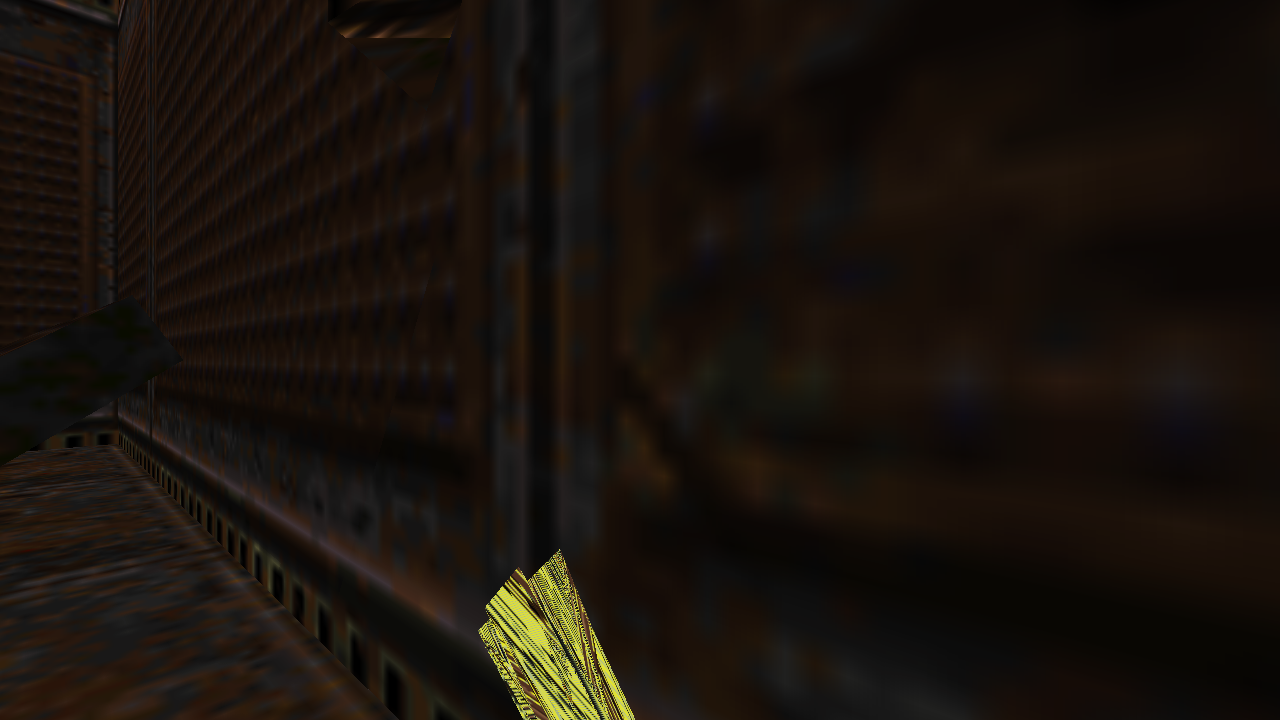
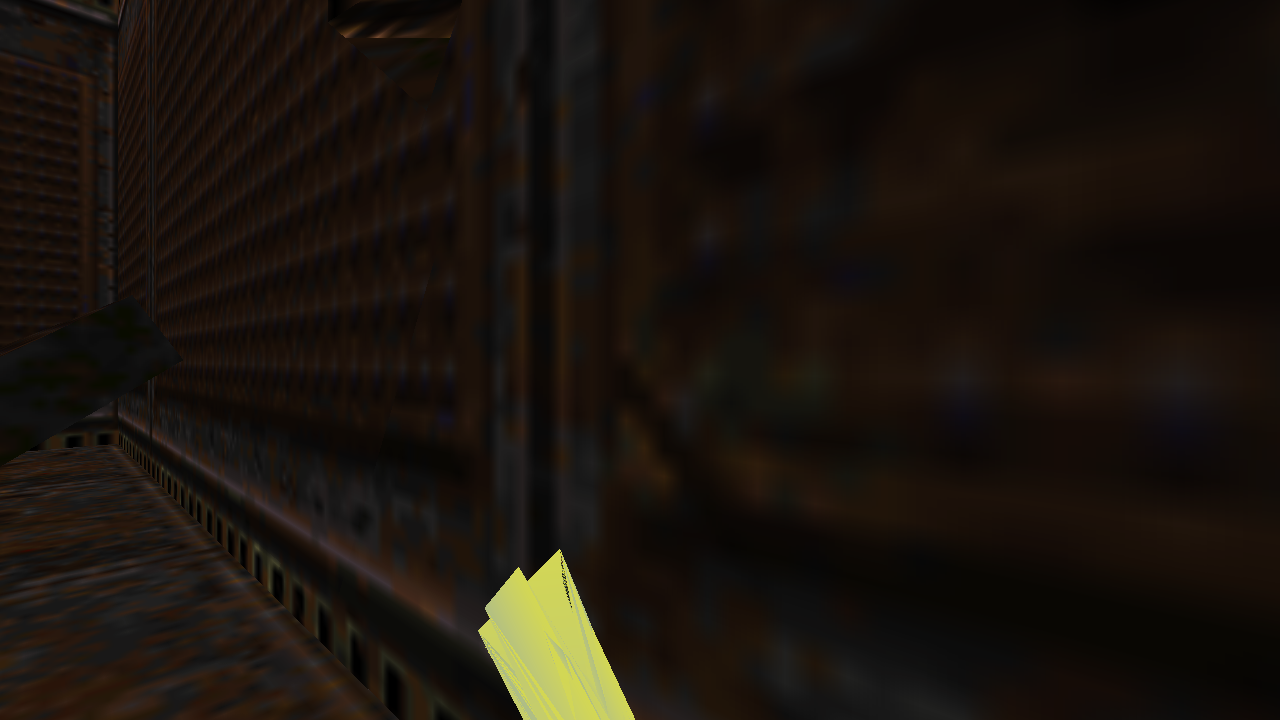
Fix MD2 weapon texture coordinate handling
Critical UV coordinate fixes:
- Changed LM2() temp buffer from int* to float* to preserve UV precision
- glcmds UVs are pre-normalized (0-1), trilist UVs need normalization
- Added conditional UV handling: glcmds pass-through, trilist divide by skin dimensions
- Updated texture array dimensions to include MD2 model skin sizes

Technical details:
- glcmds store UVs as floats ready for GPU (already normalized)
- Triangle list stores pixel coordinates requiring division by skin width/height
- Fixed vertex buffer packing to correctly store float UVs
- Weapon now renders with proper smooth texture mapping

Weapon displays correctly with yellow/gold blaster skin texture.

Changed region(s): [[0.375, 0.7639, 0.5, 1.0]]

diff --git a/q2.c b/q2.c
@@ -24,7 +24,7 @@ I FL(V p,I n){while(n>=0){if(n>=nnd)return 0;ND*nd_=&nd[n];PL*pn=&pl[nd_->pn];F 
 TC BT(V s,V e){TC t;t.fr=1;t.n=(V){0,0,1};t.hit=0;for(I i=0;i<nbr;i++)TB(s,e,&br[i],&t);return t;}
 V CV(V v,V n){F b=v.x*n.x+v.y*n.y+v.z*n.z;return(V){v.x-n.x*b,v.y-n.y*b,v.z-n.z*b};}
 U*txd[1024];I txw[1024],txh[1024],txc=0,txmap[1024],tmw=256,tmh=512;void BL(const char*p){I sz;U*d=LF(p,&sz);if(!d||sz<8||memcmp(d,"IBSP",4)||((I*)d)[1]!=38){F t[]={-100,-100,0,0,0,0.5,0.5,0,1,0,100,-100,0,1,0,0.5,0.5,0,1,0,0,100,0,0.5,1,0.5,0.5,0,1,0};vb=malloc(sizeof(t));memcpy(vb,t,sizeof(t));nv=3;return;}L*lp=(L*)(d+8);pl=(PL*)(d+lp[1].o);npl=lp[1].l/sizeof(PL);nd=(ND*)(d+lp[4].o);nnd=lp[4].l/sizeof(ND);lf=(LE*)(d+lp[8].o);nlf=lp[8].l/sizeof(LE);lb=(S*)(d+lp[9].o);nlb=lp[9].l/sizeof(S);br=(BH*)(d+lp[14].o);nbr=lp[14].l/sizeof(BH);bs=(BX*)(d+lp[15].o);nbs=lp[15].l/sizeof(BX);printf("Col: %d planes, %d nodes, %d leaves, %d leafbrushes, %d brushes, %d brushsides\n",npl,nnd,nlf,nlb,nbr,nbs);I lc=0;for(I i=0;i<nlf;i++)if(lf[i].nlb>0)lc++;printf("Leaves with brushes: %d/%d\n",lc,nlf);I sc=0;for(I i=0;i<nbr;i++)if(br[i].ct&1)sc++;printf("Solid brushes: %d/%d\n",sc,nbr);V*vx=(V*)(d+lp[2].o);TI*ti=(TI*)(d+lp[5].o);E*ed=(E*)(d+lp[11].o);J*se=(J*)(d+lp[12].o);FC*fc=(FC*)(d+lp[6].o);U*lm=(U*)(d+lp[7].o);I nf=lp[6].l/sizeof(FC);I nt=lp[5].l/sizeof(TI);for(I i=0;i<nt&&i<1024;i++){txmap[i]=0;char pth[128];sprintf(pth,"baseq2/textures/%s.wal",ti[i].n);I sz2;U*td=LF(pth,&sz2);if(td&&sz2>100&&txc<1024){TX*h=(TX*)td;txw[txc]=h->w;txh[txc]=h->h;txd[txc]=malloc(h->w*h->h*3);for(I j=0;j<h->w*h->h;j++){U idx=td[h->o[0]+j];txd[txc][j*3]=pal[idx*3];txd[txc][j*3+1]=pal[idx*3+1];txd[txc][j*3+2]=pal[idx*3+2];}txmap[i]=txc++;if(h->w>tmw)tmw=h->w;if(h->h>tmh)tmh=h->h;free(td);}}U*la=malloc(1024*1024*3);memset(la,128,1024*1024*3);I lx=0,ly=0,lh=0;vb=malloc(nf*100*10*sizeof(F));F*vp=vb;F mx=-9e9,my=-9e9,mz=-9e9,Mx=9e9,My=9e9,Mz=9e9;I nse=lp[12].l/sizeof(J);I ne=lp[11].l/sizeof(E);I nvx=lp[2].l/sizeof(V);for(I i=0;i<nf;i++){FC*f=&fc[i];if(f->ti>=nt)continue;I tix=txmap[f->ti];TI*tx=&ti[f->ti];V vl[64];I nv_=0;F mu=9e9,mv=9e9,Mu=-9e9,Mv=-9e9;for(I j=0;j<f->ne&&j<64;j++){if(f->fe+j>=nse)break;J si=se[f->fe+j];I ei=si>=0?si:-si;if(ei>=ne)break;S vi=si>=0?ed[si].v[0]:ed[-si].v[1];if(vi>=nvx)break;vl[nv_]=vx[vi];F u=vl[nv_].x*tx->v[0][0]+vl[nv_].y*tx->v[0][1]+vl[nv_].z*tx->v[0][2]+tx->v[0][3];F vv=vl[nv_].x*tx->v[1][0]+vl[nv_].y*tx->v[1][1]+vl[nv_].z*tx->v[1][2]+tx->v[1][3];mu=u<mu?u:mu;mv=vv<mv?vv:mv;Mu=u>Mu?u:Mu;Mv=vv>Mv?vv:Mv;nv_++;}I lw=(I)((Mu-mu)/16)+1,lh_=(I)((Mv-mv)/16)+1;if(lx+lw>1024){lx=0;ly+=lh+1;lh=0;}if(ly+lh_<1024&&f->lm>=0&&f->lm<lp[7].l){for(I y=0;y<lh_;y++)for(I x=0;x<lw;x++){if(lx+x<1024&&ly+y<1024){I si=(lx+x+(ly+y)*1024)*3,di=f->lm+(x+y*lw)*3;if(di+2<lp[7].l){la[si]=lm[di];la[si+1]=lm[di+1];la[si+2]=lm[di+2];}}}}for(I t=0;t<nv_-2;t++){for(I k=0;k<3;k++){V*v=k==0?&vl[0]:k==1?&vl[t+1]:&vl[t+2];F tw=tix<txc?txw[tix]:256,th=tix<txc?txh[tix]:512;F u=(v->x*tx->v[0][0]+v->y*tx->v[0][1]+v->z*tx->v[0][2]+tx->v[0][3])/tmw;F vv=(v->x*tx->v[1][0]+v->y*tx->v[1][1]+v->z*tx->v[1][2]+tx->v[1][3])/tmh;F lu=(v->x*tx->v[0][0]+v->y*tx->v[0][1]+v->z*tx->v[0][2]+tx->v[0][3]-mu)/16.0f;F lv=(v->x*tx->v[1][0]+v->y*tx->v[1][1]+v->z*tx->v[1][2]+tx->v[1][3]-mv)/16.0f;mx=v->x>mx?v->x:mx;my=v->y>my?v->y:my;mz=v->z>mz?v->z:mz;Mx=v->x<Mx?v->x:Mx;My=v->y<My?v->y:My;Mz=v->z<Mz?v->z:Mz;*vp++=v->x;*vp++=v->y;*vp++=v->z;*vp++=u;*vp++=vv;*vp++=(lx+lu)/1024.0f;*vp++=(ly+lv)/1024.0f;*vp++=tix;*vp++=1;*vp++=1;}}lx+=lw+1;lh=lh_>lh?lh_:lh;}nv=(vp-vb)/10;glGenTextures(1,&lmt);glBindTexture(GL_TEXTURE_2D,lmt);glTexImage2D(GL_TEXTURE_2D,0,GL_RGB,1024,1024,0,GL_RGB,GL_UNSIGNED_BYTE,la);glTexParameteri(GL_TEXTURE_2D,GL_TEXTURE_MIN_FILTER,GL_LINEAR);glTexParameteri(GL_TEXTURE_2D,GL_TEXTURE_MAG_FILTER,GL_LINEAR);free(la);bsp=d;gz=Mz+32;printf("BSP: %d faces -> %d tris, %d textures, bounds:[%.0f,%.0f] [%.0f,%.0f] [%.0f,%.0f]\n",nf,nv/3,txc,Mx,mx,My,my,Mz,mz);}
-void LM2(const char*p,U**d,F**vb,S**vi,I*nv,F*f1,F*f2,F*mx,I ti){I sz;*d=LF(p,&sz);if(!*d||sz<68){*d=0;return;}MD*h=(MD*)*d;if(h->id!=844121161||h->ver!=8){*d=0;return;}I tn=0,cap=10000;I*tmp=malloc(cap*9*sizeof(I));if(h->ogl>0&&h->ogl<sz){I*gc=(I*)(*d+h->ogl);while((U*)gc<*d+sz-16){I c=*gc++;if(!c)break;I fan=c<0;if(fan)c=-c;if(c<3||c>5000)break;F u0,v0,u1,v1;memcpy(&u0,gc++,4);memcpy(&v0,gc++,4);I i0=*gc++;memcpy(&u1,gc++,4);memcpy(&v1,gc++,4);I i1=*gc++;for(I k=2;k<c;k++){F u2,v2;memcpy(&u2,gc++,4);memcpy(&v2,gc++,4);I i2=*gc++;if(tn>=cap){cap*=2;tmp=realloc(tmp,cap*9*sizeof(I));}I*t=tmp+tn*9;if(fan){t[0]=i0;memcpy(t+1,&u0,4);memcpy(t+2,&v0,4);t[3]=i1;memcpy(t+4,&u1,4);memcpy(t+5,&v1,4);t[6]=i2;memcpy(t+7,&u2,4);memcpy(t+8,&v2,4);i1=i2;u1=u2;v1=v2;}else{if(k%2){t[0]=i1;memcpy(t+1,&u1,4);memcpy(t+2,&v1,4);t[3]=i0;memcpy(t+4,&u0,4);memcpy(t+5,&v0,4);t[6]=i2;memcpy(t+7,&u2,4);memcpy(t+8,&v2,4);}else{t[0]=i0;memcpy(t+1,&u0,4);memcpy(t+2,&v0,4);t[3]=i1;memcpy(t+4,&u1,4);memcpy(t+5,&v1,4);t[6]=i2;memcpy(t+7,&u2,4);memcpy(t+8,&v2,4);}i0=i1;u0=u1;v0=v1;i1=i2;u1=u2;v1=v2;}tn++;}}}if(tn==0&&h->ofs>0&&h->ofs<sz&&h->ost>0&&h->ost<sz&&h->nt>0){typedef struct{S iv[3],it[3];}TT;TT*trs=(TT*)(*d+h->ofs);typedef struct{S s,t;}ST;ST*sts=(ST*)(*d+h->ost);for(I i=0;i<h->nt&&i<5000;i++){if(tn>=cap){cap*=2;tmp=realloc(tmp,cap*9*sizeof(I));}for(I j=0;j<3;j++){I*t=tmp+tn*9+j*3;t[0]=trs[i].iv[j];F u=(F)sts[trs[i].it[j]].s/h->sw,v=(F)sts[trs[i].it[j]].t/h->sh;memcpy(t+1,&u,4);memcpy(t+2,&v,4);}tn++;}}*nv=tn*3;*vb=malloc(*nv*10*sizeof(F));*vi=malloc(*nv*sizeof(S));F*vp=*vb;for(I i=0;i<tn*3;i++){(*vi)[i]=(S)tmp[i*3];F u,v;memcpy(&u,&tmp[i*3+1],4);memcpy(&v,&tmp[i*3+2],4);*vp++=0;*vp++=0;*vp++=0;*vp++=u;*vp++=v;*vp++=0;*vp++=0;*vp++=ti;*vp++=1;*vp++=1;}free(tmp);*f1=0;*f2=1;*mx=0;printf("MD2: %d frames, %d verts, %d tris (%s)\n",h->nf,h->nv,tn,tn>0&&h->ogl>0&&h->ogl<sz?"glcmds":"trilist");}
+void LM2(const char*p,U**d,F**vb,S**vi,I*nv,F*f1,F*f2,F*mx,I ti){I sz;*d=LF(p,&sz);if(!*d||sz<68){*d=0;return;}MD*h=(MD*)*d;if(h->id!=844121161||h->ver!=8){*d=0;return;}I tn=0,cap=10000;F*tmp=malloc(cap*9*sizeof(F));if(h->ogl>0&&h->ogl<sz){I*gc=(I*)(*d+h->ogl);while((U*)gc<*d+sz-16){I c=*gc++;if(!c)break;I fan=c<0;if(fan)c=-c;if(c<3||c>5000)break;F u0,v0;S i0;memcpy(&u0,gc++,4);memcpy(&v0,gc++,4);i0=*gc++;F u1,v1;S i1;memcpy(&u1,gc++,4);memcpy(&v1,gc++,4);i1=*gc++;for(I k=2;k<c;k++){F u2,v2;S i2;memcpy(&u2,gc++,4);memcpy(&v2,gc++,4);i2=*gc++;if(tn>=cap){cap*=2;tmp=realloc(tmp,cap*9*sizeof(F));}F*t=tmp+tn*9;if(fan){t[0]=i0;t[1]=u0;t[2]=v0;t[3]=i1;t[4]=u1;t[5]=v1;t[6]=i2;t[7]=u2;t[8]=v2;i1=i2;u1=u2;v1=v2;}else{if(k%2){t[0]=i1;t[1]=u1;t[2]=v1;t[3]=i0;t[4]=u0;t[5]=v0;t[6]=i2;t[7]=u2;t[8]=v2;}else{t[0]=i0;t[1]=u0;t[2]=v0;t[3]=i1;t[4]=u1;t[5]=v1;t[6]=i2;t[7]=u2;t[8]=v2;}i0=i1;u0=u1;v0=v1;i1=i2;u1=u2;v1=v2;}tn++;}}}if(tn==0&&h->ofs>0&&h->ofs<sz&&h->ost>0&&h->ost<sz&&h->nt>0){typedef struct{S iv[3],it[3];}TT;TT*trs=(TT*)(*d+h->ofs);typedef struct{S s,t;}ST;ST*sts=(ST*)(*d+h->ost);for(I i=0;i<h->nt&&i<5000;i++){if(tn>=cap){cap*=2;tmp=realloc(tmp,cap*9*sizeof(F));}for(I j=0;j<3;j++){F*t=tmp+tn*9+j*3;t[0]=trs[i].iv[j];t[1]=(F)sts[trs[i].it[j]].s/h->sw;t[2]=(F)sts[trs[i].it[j]].t/h->sh;}tn++;}}*nv=tn*3;*vb=malloc(*nv*10*sizeof(F));*vi=malloc(*nv*sizeof(S));F*vp=*vb;I used_glcmds=tn>0&&h->ogl>0&&h->ogl<sz;for(I i=0;i<tn*3;i++){(*vi)[i]=(S)tmp[i*3];F u=used_glcmds?tmp[i*3+1]:tmp[i*3+1]/h->sw,v=used_glcmds?tmp[i*3+2]:tmp[i*3+2]/h->sh;*vp++=0;*vp++=0;*vp++=0;*vp++=u;*vp++=v;*vp++=0;*vp++=0;*vp++=ti;*vp++=1;*vp++=1;}free(tmp);*f1=0;*f2=1;*mx=0;printf("MD2: %d frames, %d verts, %d tris (%s)\n",h->nf,h->nv,tn,used_glcmds?"glcmds":"trilist");}
 void SS(const char*p){U*d=malloc(W*H*3);glReadPixels(0,0,W,H,GL_RGB,GL_UNSIGNED_BYTE,d);FILE*f=fopen(p,"wb");fprintf(f,"P6\n%d %d\n255\n",W,H);for(int y=H-1;y>=0;y--)fwrite(d+y*W*3,1,W*3,f);fclose(f);free(d);printf("Saved: %s\n",p);}
 int main(int ac,char**av){
 SDL_Init(SDL_INIT_VIDEO);SDL_GL_SetAttribute(SDL_GL_CONTEXT_MAJOR_VERSION,3);SDL_GL_SetAttribute(SDL_GL_CONTEXT_MINOR_VERSION,3);SDL_GL_SetAttribute(SDL_GL_CONTEXT_PROFILE_MASK,SDL_GL_CONTEXT_PROFILE_CORE);
@@ -33,9 +33,9 @@ ALCdevice*ad=alcOpenDevice(0);if(ad){ALCcontext*ac_=alcCreateContext(ad,0);if(ac
 I vs=CS(GL_VERTEX_SHADER,"vert.glsl"),fs=CS(GL_FRAGMENT_SHADER,"frag.glsl");prg=glCreateProgram();glAttachShader(prg,vs);glAttachShader(prg,fs);glLinkProgram(prg);glUseProgram(prg);
 LP();tex=LW("baseq2/textures/eq2/wall.wal");
 BL(ac>1?av[1]:"baseq2/maps/sample.bsp");
-I sw,sh;txd[txc]=LP2("baseq2/models/monsters/soldier/skin.pcx",&sw,&sh);txw[txc]=sw;txh[txc]=sh;I mti=txc++;
+I sw,sh;txd[txc]=LP2("baseq2/models/monsters/soldier/skin.pcx",&sw,&sh);txw[txc]=sw;txh[txc]=sh;if(sw>tmw)tmw=sw;if(sh>tmh)tmh=sh;I mti=txc++;
 LM2("baseq2/models/monsters/soldier/tris.md2",&md2,&mvb,&mvi,&mnv,&fr1,&fr2,&mx,mti);
-txd[txc]=LP2("baseq2/models/weapons/v_blast/skin.pcx",&sw,&sh);txw[txc]=sw;txh[txc]=sh;I wti=txc++;
+txd[txc]=LP2("baseq2/models/weapons/v_blast/skin.pcx",&sw,&sh);txw[txc]=sw;txh[txc]=sh;if(sw>tmw)tmw=sw;if(sh>tmh)tmh=sh;I wti=txc++;
 LM2("baseq2/models/weapons/v_blast/tris.md2",&wmd2,&wvb,&wvi,&wnv,&wf1,&wf2,&wmx,wti);
 I txa;printf("Tex array: %dx%dx%d\n",tmw,tmh,txc);glGenTextures(1,&txa);glBindTexture(GL_TEXTURE_2D_ARRAY,txa);glTexImage3D(GL_TEXTURE_2D_ARRAY,0,GL_RGB,tmw,tmh,txc,0,GL_RGB,GL_UNSIGNED_BYTE,0);for(I i=0;i<txc;i++){U*td=malloc(tmw*tmh*3);for(I y=0;y<tmh;y++)for(I x=0;x<tmw;x++){I sx=x%txw[i],sy=y%txh[i],si=(sx+sy*txw[i])*3,di=(x+y*tmw)*3;td[di]=txd[i][si];td[di+1]=txd[i][si+1];td[di+2]=txd[i][si+2];}glTexSubImage3D(GL_TEXTURE_2D_ARRAY,0,0,0,i,tmw,tmh,1,GL_RGB,GL_UNSIGNED_BYTE,td);free(td);}glTexParameteri(GL_TEXTURE_2D_ARRAY,GL_TEXTURE_MIN_FILTER,GL_LINEAR);glTexParameteri(GL_TEXTURE_2D_ARRAY,GL_TEXTURE_MAG_FILTER,GL_LINEAR);glTexParameteri(GL_TEXTURE_2D_ARRAY,GL_TEXTURE_WRAP_S,GL_REPEAT);glTexParameteri(GL_TEXTURE_2D_ARRAY,GL_TEXTURE_WRAP_T,GL_REPEAT);
 glGenVertexArrays(1,&vao);glGenBuffers(1,&vbo);glBindVertexArray(vao);glBindBuffer(GL_ARRAY_BUFFER,vbo);glBufferData(GL_ARRAY_BUFFER,nv*10*sizeof(F),vb,GL_STATIC_DRAW);
